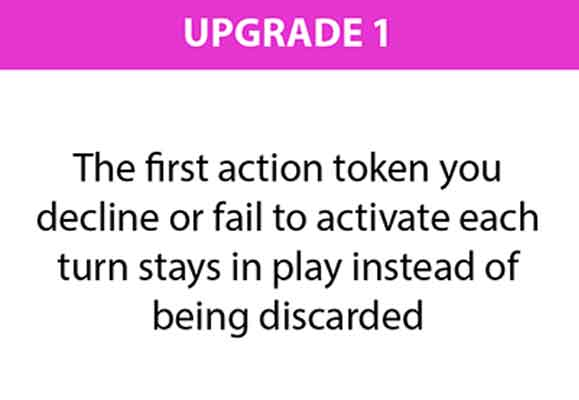
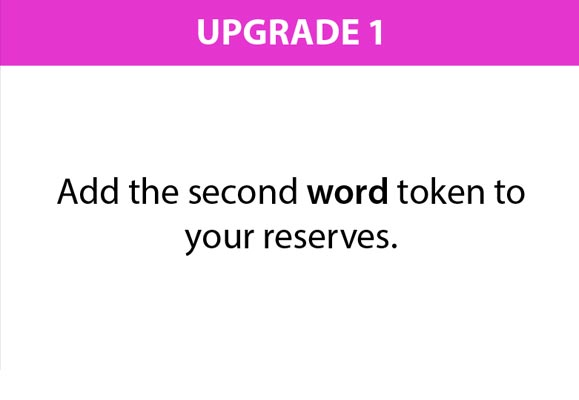
change society upgrade to add multiple word tokens, refactor plants variable tokens

diff --git a/server/classes/factions/Society.js b/server/classes/factions/Society.js
@@ -12,8 +12,9 @@ class Society extends Faction {
         this.data.focus = 'token-focus';
         this.data.focusDescription = "Tokens in many areas";
         this.data.title = "The Blackstone Society";
-        this.data.tokensNotDiscarded = 0;
-        this.data.tokensNotDiscardedMax = 0;
+        //this.data.tokensNotDiscarded = 0;
+        //this.data.tokensNotDiscardedMax = 0;
+        this.data.words = [];
 
         // tokens
         this.tokens['hypnosis'] = {
@@ -26,15 +27,6 @@ class Society extends Faction {
             }
         };
 
-        // tokens
-        this.tokens['word-of-command'] = {
-            count: 2,
-            data: {
-                influence: 1,
-                type: 'word-of-command',
-                cost: 0,
-            }
-        };
 
         // tokens
         this.tokens['push'] = {
@@ -47,6 +39,18 @@ class Society extends Faction {
             }
         };
 
+
+        // tokens
+        this.tokens['word-of-command'] = {
+            count: 3,
+            data: {
+                influence: 1,
+                type: 'word-of-command',
+                cost: 0,
+            }
+        };
+
+        
         // units
         this.units['patsy'].count = 5;
         this.units['goon'].count = 6;
@@ -91,12 +95,10 @@ class Society extends Faction {
     }
 
 
-    processUpgrade( n ) {
-        switch( n ) {
-            case 1 : this.data.tokensNotDiscardedMax = 1; break;
-            case 2 : this.data.tokensNotDiscardedMax = 12; break;
-        }
+    processUpgrade( upgrade ) {
+        this.upgradeVariableTokens( upgrade, this.data.words );
     }
+
 
     placeHenchman( event ){
         let henchman = this.data.units.find( unit => unit.type === 'henchman' && !unit.killed );
@@ -130,7 +132,7 @@ class Society extends Faction {
     }
 
     factionCleanUp(){
-        this.data.tokensNotDiscarded = 0;
+        //this.data.tokensNotDiscarded = 0;
         let xavier = this.getXavier();
         if( xavier && xavier.token ){
             xavier.token.location = 'xavier';
@@ -247,6 +249,9 @@ class Society extends Faction {
         this.game().advancePlayer();
     }
 
+    onSetup(){
+        this.setupVariableTokens( 'word-of-command', this.data.words );
+    }
 }
 
 

diff --git a/server/classes/factions/Plants.js b/server/classes/factions/Plants.js
@@ -69,12 +69,9 @@ class Plants extends Faction {
         return mods;
     }
 
-    processUpgrade( n ) {
-        let vinesToAdd = _.min( [ n, this.data.vines.length ] );
-        while( vinesToAdd ){
-            this.data.tokens.push( this.data.vines.pop() );
-            vinesToAdd--;
-        }
+
+    processUpgrade( upgrade ) {
+        this.upgradeVariableTokens( upgrade, this.data.vines );
     }
 
 
@@ -197,18 +194,7 @@ class Plants extends Faction {
 
 
     onSetup(){
-        let numToSetAside = 2 - this.data.upgrade;
-
-        if( numToSetAside > this.data.vines.length ){
-            while( numToSetAside > this.data.vines.length ){
-                let vine = this.data.tokens.find( token => token.type === 'vines' && !token.location && !token.revealed );
-                if( vine ) _.moveItemById( vine.id, this.data.tokens, this.data.vines );
-            }
-        } else if( numToSetAside < this.data.vines.length ){
-            while( numToSetAside < this.data.vines.length ) {
-                this.data.tokens.push(this.data.vines.pop());
-            }
-        }
+        this.setupVariableTokens( 'vines', this.data.vines );
     }
 
 }

diff --git a/server/classes/factions/Faction.js b/server/classes/factions/Faction.js
@@ -570,6 +570,33 @@ class Faction {
         return results;
     }
 
+
+    upgradeVariableTokens( upgrade, tokenCache ){
+        let tokensToAdd = _.min( [ upgrade, tokenCache.length ] );
+        while( tokensToAdd ){
+            this.data.tokens.push( tokenCache.pop() );
+            tokensToAdd--;
+        }
+    }
+
+
+    setupVariableTokens( tokenName, tokenCache ){
+        let numToSetAside = 2 - this.data.upgrade;
+
+        if( numToSetAside > tokenCache.length ){
+            while( numToSetAside > tokenCache.length ){
+                console.log( 'first loop' );
+                let token = this.data.tokens.find( obj => obj.type === tokenName && !obj.location && !obj.revealed );
+                if( token ) _.moveItemById( token.id, this.data.tokens, tokenCache );
+            }
+        } else if( numToSetAside < tokenCache.length ){
+            while( numToSetAside < tokenCache.length ) {
+                console.log( 'second loop' );
+                this.data.tokens.push( tokenCache.pop() );
+            }
+        }
+    }
+
 }
 
 

diff --git a/server/classes/gameMixins/takeActionsStep.js b/server/classes/gameMixins/takeActionsStep.js
@@ -39,6 +39,7 @@ let obj = {
         let area = this.areas[ token.location ];
         let faction = player.faction();
 
+        /*
         if( faction.data.tokensNotDiscardedMax && faction.data.tokensNotDiscarded < faction.data.tokensNotDiscardedMax ){
             message = `Doesn't activate their <span class="uppercase highlight">${token.name}</span> token, but it stays in place`;
             faction.data.tokensNotDiscarded++;
@@ -46,6 +47,10 @@ let obj = {
             message = `Pull their <span class="uppercase highlight">${token.name}</span> token`;
             _.discardToken( token, area );
         }
+        */
+
+        message = `Pull their <span class="uppercase highlight">${token.name}</span> token`;
+        _.discardToken( token, area );
 
         if( refund ){
             this.checkForTokenRefund( token, area );
